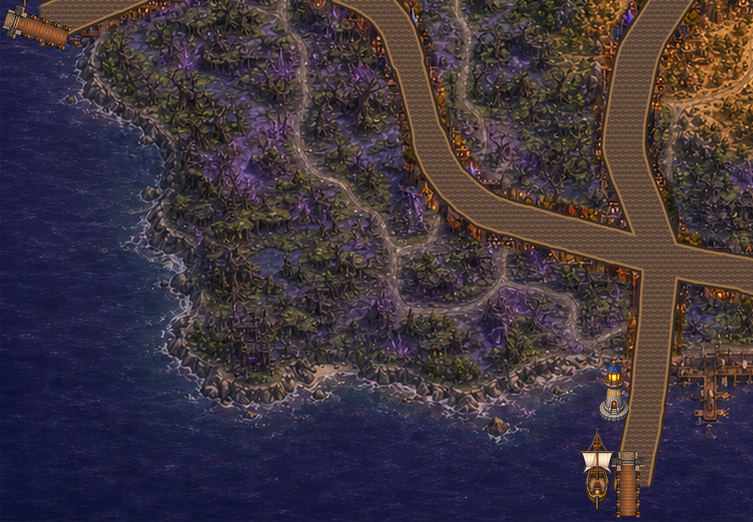
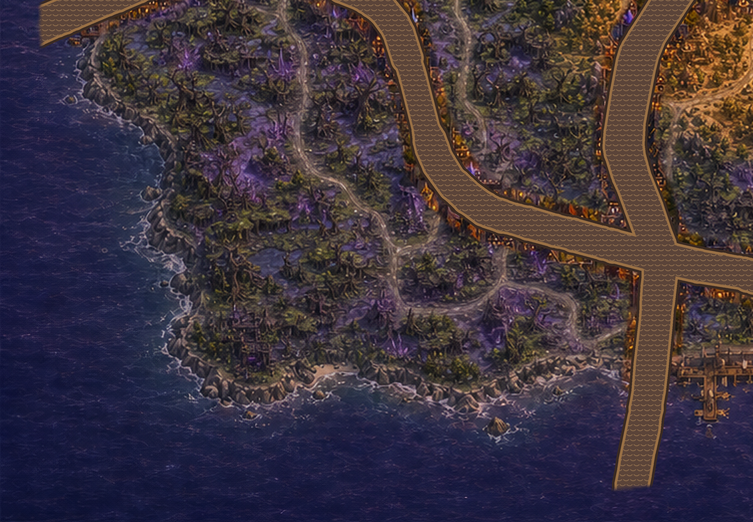
fix: remove past harbor decorations

Changed region(s): [[0.7636, 0.6743, 0.8552, 1.0], [0.0, 0.0, 0.0916, 0.092]]

diff --git a/tests/v2-osm-source.test.js b/tests/v2-osm-source.test.js
@@ -158,30 +158,20 @@ test('the opening fantasy presentation does not reveal the memory premise', () =
   assert.doesNotMatch(runtime, /fillText\(['"]思い出せない場所/);
 });
 
-test('Past Evening map build clips roads to an island and draws ports at coastal road ends', () => {
+test('Past Evening map build clips roads to an island and leaves coastal road ends undecorated', () => {
   const builder = fs.readFileSync(path.join('tools', 'build-v2-geographic-map.py'), 'utf8');
   const html = fs.readFileSync('v2.html', 'utf8');
   const runtime = fs.readFileSync('v2.js', 'utf8');
   assert.match(builder, /past_land_mask/);
-  assert.match(builder, /draw_past_ports/);
-  assert.match(builder, /HARBOR_PIER_SOURCE_PATH/);
-  assert.match(builder, /HARBOR_SHIP_SOURCE_PATH/);
-  assert.match(builder, /HARBOR_LIGHTHOUSE_SOURCE_PATH/);
-  assert.match(builder, /HARBOR_PIER_SCALE\s*=\s*0\.72/);
-  assert.match(builder, /HARBOR_LIGHTHOUSE_INLAND\s*=\s*0\.46/);
-  assert.match(builder, /HARBOR_LIGHTHOUSE_SIDE\s*=\s*0\.10/);
-  assert.match(builder, /pier_sprite\.rotate/);
-  assert.doesNotMatch(builder, /ship_sprite\.rotate|lighthouse_sprite\.rotate/);
-  assert.match(builder, /center\[0\]\s*-\s*outward\[0\]\s*\*\s*size\s*\*\s*HARBOR_LIGHTHOUSE_INLAND\s*\+\s*side\[0\]\s*\*\s*size\s*\*\s*HARBOR_LIGHTHOUSE_SIDE/);
-  assert.match(builder, /center\[1\]\s*-\s*outward\[1\]\s*\*\s*size\s*\*\s*HARBOR_LIGHTHOUSE_INLAND\s*\+\s*side\[1\]\s*\*\s*size\s*\*\s*HARBOR_LIGHTHOUSE_SIDE/);
-  assert.match(builder, /composite_upright_harbor_prop/);
-  assert.match(builder, /canvas\.width\s*-\s*sprite\.width/);
-  assert.match(builder, /canvas\.height\s*-\s*sprite\.height/);
-  assert.match(builder, /Image\.Resampling\.LANCZOS/);
-  assert.match(builder, /alpha_composite/);
+  assert.doesNotMatch(builder, /HARBOR_|harbor-|coastal_road_ports|draw_past_ports|composite_upright_harbor_prop/);
   assert.match(builder, /ImageChops\.multiply/);
-  for (const name of ['harbor-pier-source.png', 'harbor-ship-source.png', 'harbor-lighthouse-source.png']) {
-    assert.equal(fs.existsSync(path.join('assets', 'v2', 'past-events', name)), true, name);
+  for (const name of [
+    'harbor-setpiece-source.png',
+    'harbor-pier-source.png',
+    'harbor-ship-source.png',
+    'harbor-lighthouse-source.png'
+  ]) {
+    assert.equal(fs.existsSync(path.join('assets', 'v2', 'past-events', name)), false, name);
   }
   assert.match(html, /road-collision-past-data\.js/);
   assert.match(runtime, /V2_ROAD_COLLISION_PAST/);

diff --git a/v2.html b/v2.html
@@ -191,7 +191,7 @@
     <script src="assets/v2/road-collision-data.js?edition=1"></script>
     <script src="assets/v2/road-collision-past-data.js?edition=1"></script>
     <script src="assets/v2/map-layout-data.js?edition=1"></script>
-    <script src="v2-editions.js?edition=5"></script>
+    <script src="v2-editions.js?edition=6"></script>
     <script src="v2-assets.js?edition=1"></script>
     <script src="v2-landmarks.js?edition=1"></script>
     <script src="v2-battle.js?edition=7"></script>

diff --git a/tests/v2-past-tiles.test.js b/tests/v2-past-tiles.test.js
@@ -32,7 +32,7 @@ test('past runtime tiles were generated from the final road-composited map', () 
 
 test('past tile and runtime scripts use the current cache versions', () => {
   const html = fs.readFileSync('v2.html', 'utf8');
-  assert.match(html, /v2-editions\.js\?edition=5/);
+  assert.match(html, /v2-editions\.js\?edition=6/);
   assert.match(html, /v2-battle\.js\?edition=7/);
   assert.match(html, /v2\.js\?edition=18/);
 });

diff --git a/tests/v2-editions.test.js b/tests/v2-editions.test.js
@@ -28,7 +28,7 @@ test('both editions use four-tile seamless map directories', () => {
 
 test('Past Evening increments its tile cache version when the road-composited tiles change', () => {
   const past = editionDefinition('past');
-  assert.equal(past.tileVersion, 5);
+  assert.equal(past.tileVersion, 6);
 });
 
 test('Past Evening uses its own medieval landmark art with matching filenames', () => {

diff --git a/v2-editions.js b/v2-editions.js
@@ -20,7 +20,7 @@
       label: '過去編-夕方',
       subtitle: 'PAST · EVENING',
       tileDirectory: 'past-evening-runtime-tiles',
-      tileVersion: 5,
+      tileVersion: 6,
       landmarkDirectory: 'past-landmarks',
       landmarkSizeOverrides: Object.freeze({
         // The source sprite is tightly cropped after removing sheet-edge bleed.

diff --git a/tools/build-v2-geographic-map.py b/tools/build-v2-geographic-map.py
@@ -20,13 +20,6 @@ PREVIEW_PATH = ROOT / "tmp" / "v2-road-geographic-preview.png"
 LANDMARK_PREVIEW_PATH = ROOT / "tmp" / "v2-geographic-landmark-preview.png"
 PAST_LANDMARK_PREVIEW_PATH = ROOT / "tmp" / "v2-past-evening-landmark-preview.png"
 PAST_LAND_MASK_PATH = ROOT / "assets" / "v2" / "past-land-mask.png"
-HARBOR_PIER_SOURCE_PATH = ROOT / "assets" / "v2" / "past-events" / "harbor-pier-source.png"
-HARBOR_SHIP_SOURCE_PATH = ROOT / "assets" / "v2" / "past-events" / "harbor-ship-source.png"
-HARBOR_LIGHTHOUSE_SOURCE_PATH = ROOT / "assets" / "v2" / "past-events" / "harbor-lighthouse-source.png"
-HARBOR_PIER_SCALE = 0.72
-HARBOR_SHIP_OUTWARD = 0.16
-HARBOR_LIGHTHOUSE_INLAND = 0.46
-HARBOR_LIGHTHOUSE_SIDE = 0.10
 COLLISION_DATA_PATH = ROOT / "assets" / "v2" / "road-collision-data.js"
 PAST_COLLISION_DATA_PATH = ROOT / "assets" / "v2" / "road-collision-past-data.js"
 LAYOUT_DATA_PATH = ROOT / "assets" / "v2" / "map-layout-data.js"
@@ -206,121 +199,6 @@ def past_land_mask(size: tuple[int, int]) -> Image.Image:
     return mask.resize((width // 4, height // 4), Image.Resampling.LANCZOS).resize(size, Image.Resampling.LANCZOS)
 
 
-def coastal_road_ports(layout: dict, land_mask: Image.Image) -> list[tuple[float, float, float, int]]:
-    pixels = land_mask.load()
-    width, height = land_mask.size
-
-    def on_land(x: float, y: float) -> bool:
-        rounded_x, rounded_y = round(x), round(y)
-        return (
-            0 <= rounded_x < width
-            and 0 <= rounded_y < height
-            and pixels[rounded_x, rounded_y] >= 128
-        )
-
-    candidates: list[tuple[float, float, float, int]] = []
-    for road in layout["roads"]:
-        for path in road_paths(road):
-            for start, end in zip(path, path[1:]):
-                start_land = on_land(start[0], start[1])
-                end_land = on_land(end[0], end[1])
-                if start_land == end_land:
-                    continue
-                inside = start if start_land else end
-                outside = end if start_land else start
-                inside_x, inside_y = float(inside[0]), float(inside[1])
-                outside_x, outside_y = float(outside[0]), float(outside[1])
-                # Binary search the exact shoreline point along the real road segment.
-                for _ in range(12):
-                    middle_x = (inside_x + outside_x) / 2
-                    middle_y = (inside_y + outside_y) / 2
-                    if on_land(middle_x, middle_y):
-                        inside_x, inside_y = middle_x, middle_y
-                    else:
-                        outside_x, outside_y = middle_x, middle_y
-                angle = math.atan2(outside_y - inside_y, outside_x - inside_x)
-                candidates.append((inside_x, inside_y, angle, road["width"]))
-
-    # Several OSM ways can describe the same physical coastal approach.
-    ports: list[tuple[float, float, float, int]] = []
-    for candidate in sorted(candidates, key=lambda item: item[3], reverse=True):
-        if all(math.dist(candidate[:2], existing[:2]) >= 75 for existing in ports):
-            ports.append(candidate)
-    return ports
-
-
-def composite_upright_harbor_prop(
-    canvas: Image.Image,
-    source: Image.Image,
-    anchor: tuple[float, float],
-    target_height: int,
-) -> None:
-    # Tall pseudo-3D props use a bottom-center ground anchor. They are never
-    # rotated with the coast, so every mast and wall rises toward screen top.
-    content_bounds = source.getchannel("A").getbbox()
-    if content_bounds is None:
-        raise ValueError("Harbor prop source has no visible pixels")
-    sprite = source.crop(content_bounds)
-    target_width = max(1, round(sprite.width / sprite.height * target_height))
-    sprite = sprite.resize((target_width, target_height), Image.Resampling.LANCZOS)
-    left = round(anchor[0] - sprite.width / 2)
-    top = round(anchor[1] - sprite.height)
-    # Keep upright ships and towers fully visible at ports close to the map edge.
-    left = max(0, min(left, canvas.width - sprite.width))
-    top = max(0, min(top, canvas.height - sprite.height))
-    canvas.alpha_composite(sprite, (left, top))
-
-
-def draw_past_ports(canvas: Image.Image, layout: dict, land_mask: Image.Image) -> Image.Image:
-    high_resolution = canvas.convert("RGBA").resize(
-        (canvas.width * SUPERSAMPLE, canvas.height * SUPERSAMPLE),
-        Image.Resampling.LANCZOS,
-    )
-    pier_source = Image.open(HARBOR_PIER_SOURCE_PATH).convert("RGBA")
-    ship_source = Image.open(HARBOR_SHIP_SOURCE_PATH).convert("RGBA")
-    lighthouse_source = Image.open(HARBOR_LIGHTHOUSE_SOURCE_PATH).convert("RGBA")
-    for x, y, angle, road_width in coastal_road_ports(layout, land_mask):
-        size = round(max(128, min(158, 112 + road_width * 1.35)) * SUPERSAMPLE)
-        pier_size = round(size * HARBOR_PIER_SCALE)
-        pier_sprite = pier_source.resize((pier_size, pier_size), Image.Resampling.LANCZOS)
-        # Only the low, mostly top-down deck follows the road/shore direction.
-        # Rotating the former combined sprite also turned towers and masts
-        # sideways, contradicting the map's consistent pseudo-3D projection.
-        pier_sprite = pier_sprite.rotate(
-            math.degrees(angle) + 90,
-            resample=Image.Resampling.BICUBIC,
-            expand=True,
-        )
-        center = x * SUPERSAMPLE, y * SUPERSAMPLE
-        left = round(center[0] - pier_sprite.width / 2)
-        top = round(center[1] - pier_sprite.height / 2)
-        high_resolution.alpha_composite(pier_sprite, (left, top))
-
-        outward = math.cos(angle), math.sin(angle)
-        side = -outward[1], outward[0]
-        prop_anchors = (
-            (
-                center[0] + outward[0] * size * HARBOR_SHIP_OUTWARD + side[0] * size * 0.22,
-                center[1] + outward[1] * size * HARBOR_SHIP_OUTWARD + side[1] * size * 0.22,
-                ship_source,
-                round(size * 0.58),
-            ),
-            (
-                center[0] - outward[0] * size * HARBOR_LIGHTHOUSE_INLAND + side[0] * size * HARBOR_LIGHTHOUSE_SIDE,
-                center[1] - outward[1] * size * HARBOR_LIGHTHOUSE_INLAND + side[1] * size * HARBOR_LIGHTHOUSE_SIDE,
-                lighthouse_source,
-                round(size * 0.44),
-            ),
-        )
-        for anchor_x, anchor_y, source, target_height in sorted(prop_anchors, key=lambda item: item[1]):
-            composite_upright_harbor_prop(
-                high_resolution,
-                source,
-                (anchor_x, anchor_y),
-                target_height,
-            )
-    return high_resolution.resize(canvas.size, Image.Resampling.LANCZOS).convert("RGB")
-
 def mask_to_runs(mask: Image.Image) -> list[list[list[int]]]:
     rows: list[list[list[int]]] = []
     pixels = mask.load()
@@ -405,7 +283,6 @@ def render_map(layout: dict, background_path: Path, output_path: Path, palette: 
         island = Image.open(PAST_BACKGROUND_PATH).convert("RGB").resize((width, height), Image.Resampling.LANCZOS)
         # Keep the generated sea outside the stable island mask and all deterministic road work inside it.
         map_image = Image.composite(map_image, island, land_mask)
-        map_image = draw_past_ports(map_image, layout, land_mask)
     output_path.parent.mkdir(parents=True, exist_ok=True)
     map_image.save(output_path)
     return map_image

diff --git a/assets/v2/PAST_ASSET_PROMPTS.md b/assets/v2/PAST_ASSET_PROMPTS.md
@@ -126,98 +126,3 @@ Mood: mystery resolved but a larger secret discovered; ordinary sword-and-magic 
 Lighting: warm evening light entering from upper right, cool purple haze receding, subtle golden rim on the seal plate.
 Constraints: do not draw any star, compass rose, crest, emblem, letters, numbers, runes, text, captions, UI, logo, watermark, characters, monster, or battle effect on the blank medallion. It must remain plain and unobstructed for compositing.
 ```
-
-## 港セットピース
-
-`harbor-setpiece-source.png`
-
-```text
-Use case: stylized-concept
-Asset type: transparent top-down isometric RPG map setpiece
-Primary request: A polished small medieval coastal harbor setpiece for a fantasy overworld. Build one straight, clean wooden pier oriented vertically from land at the bottom toward open water at the top. A compact single-mast medieval sailing ship is neatly moored along the left side of the pier. A small stone lighthouse with warm lantern windows stands on a round stone platform along the right side near the seaward end. Add a few tidy crates, rope coils, bollards, and one tiny rowboat. The pier edges must be smooth and intentionally constructed, not jagged.
-Style: hand-painted classic 16-bit/32-bit era JRPG upgraded to high resolution, strict top-down with slight isometric depth matching a detailed fantasy overworld, crisp readable silhouettes.
-Composition: square canvas, the complete harbor isolated in the center, generous transparent padding on all sides, land connection at exact bottom center, seaward end at exact top center. Keep all parts within the canvas.
-Lighting: neutral soft ambient asset lighting with subtle warm lighthouse glow; avoid directional cast shadows so the whole asset can be rotated to different shore directions without looking wrong.
-Constraints: genuinely transparent background; no ocean background; no land terrain background; no coast edge; no people; no labels; no text; no modern vehicles; no UI; no watermark. The asset will be rotated and composited over existing sea and shore pixels.
-```
-
-## 港の固定疑似3D投影
-
-港全体を回転すると灯台や帆まで横倒しになるため、最終版では桟橋だけを回転し、船と灯台は常に画面上方向へ立つ独立レイヤーとして合成する。
-
-`harbor-pier-source.png` のベース生成
-
-```text
-Use case: precise-object-edit
-Asset type: transparent rotatable JRPG overworld pier component
-Input images: Image 1 is the current harbor setpiece and the edit target/style reference.
-Primary request: Isolate and retain only the clean wooden pier/deck and its low stone land-connection landing. Remove the sailing ship, rowboat, lighthouse, tower, flags, hanging lantern posts, tall masts, crates, barrels, ropes and every other tall or directional prop. Reconstruct any deck boards hidden behind removed objects.
-Style/medium: preserve the exact hand-painted high-resolution classic 16-bit/32-bit JRPG overworld style, materials, outline weight and warm brown palette of Image 1.
-Composition/framing: square transparent canvas; one straight pier runs vertically from a low stone landing at exact bottom center toward a clean squared seaward end at exact top center; centered; generous transparent padding; perfectly suitable for rotation to any coast direction.
-Perspective: mostly top-down deck surface with only very shallow edge thickness. No pseudo-3D vertical structures and no directional lighting or shadows, so rotation by 0/90/180/270 degrees remains visually natural.
-Constraints: genuinely transparent background; change the asset into a pier-only layer; no water, no terrain, no coast, no ship, no boat, no lighthouse, no building, no mast, no flags, no text, no UI, no watermark.
-```
-
-`harbor-pier-source.png` の透明背景補正
-
-```text
-Use case: background-extraction
-Asset type: transparent rotatable JRPG overworld pier component
-Input images: Image 1 is the pier-only edit target. Its visible pale checkerboard is an incorrect baked background, not part of the artwork.
-Primary request: Remove only the entire pale checkerboard/background and replace it with genuine PNG alpha transparency. Preserve the wooden pier, low posts, metal brackets, ropes on the posts, and bottom stone landing exactly as shown, including their shape, colors, texture, scale and centered vertical orientation.
-Composition/framing: keep the same square canvas and the same centered bottom-to-top pier placement.
-Constraints: actual transparent pixels everywhere outside the pier and landing; clean anti-aliased cutout edges; no white or gray checkerboard; no halo; no new objects; no restyling; no water; no terrain; no text; no UI; no watermark.
-```
-
-`harbor-lighthouse-source.png`
-
-```text
-Use case: precise-object-edit
-Asset type: transparent upright JRPG overworld lighthouse component
-Input images: Image 1 is the current harbor setpiece and the edit target/style reference.
-Primary request: Isolate the stone lighthouse from Image 1 as a separate reusable sprite. Remove the pier, ships, boats, ropes, barrels, crates, flags and every other harbor object. Preserve the lighthouse's blue-and-gold lantern roof, warm lit windows, round stone base and small front steps, while reconstructing clean hidden edges.
-Style/medium: preserve the exact hand-painted high-resolution classic 16-bit/32-bit JRPG overworld style, material detail, outline weight and palette of Image 1.
-Composition/framing: square transparent canvas; lighthouse centered; base contact point at exact bottom center; generous transparent padding above and to both sides; entire silhouette visible.
-Perspective: front-facing pseudo-3D overworld sprite. The stone base rests at the bottom and the tower rises strictly toward the top edge of the screen. Vertical walls stay vertical. Camera is in front with a slight view of the roof and front doorway, consistent with all buildings extending upward on the map.
-Lighting/mood: neutral ambient lighting with warm lantern glow; no long directional cast shadow.
-Constraints: genuinely transparent background; no water, no terrain, no pier, no ship, no boat, no extra building, no text, no UI, no watermark. Do not tilt or rotate the tower left, right, or downward.
-```
-
-`harbor-ship-source.png`
-
-```text
-Use case: precise-object-edit
-Asset type: transparent upright JRPG overworld harbor ship component
-Input images: Image 1 is the current harbor setpiece and the edit target/style reference.
-Primary request: Isolate the compact medieval single-mast sailing ship from Image 1 as a separate reusable harbor sprite. Remove the pier, lighthouse, rowboat, ropes connecting to the pier, crates, barrels, flags outside the ship and every other harbor object. Preserve the blue-and-gold hull, warm cabin windows, mast, rigging and cream sail, reconstructing clean hidden edges.
-Style/medium: preserve the exact hand-painted high-resolution classic 16-bit/32-bit JRPG overworld style, material detail, outline weight and palette of Image 1.
-Composition/framing: square transparent canvas; complete ship centered; hull contact/base at bottom center; mast and sail rise toward the top edge; generous transparent padding; entire silhouette visible.
-Perspective: front-facing pseudo-3D overworld sprite rather than a flat overhead token. The hull rests lower in the image and all vertical mast, sail and cabin details extend strictly upward on screen. Slight top-surface visibility is allowed, but the sprite must never appear sideways or upside-down.
-Lighting/mood: neutral ambient asset lighting with restrained warm window glow; no long directional cast shadow.
-Constraints: genuinely transparent background; no water, no terrain, no pier, no lighthouse, no rowboat, no extra building, no text, no UI, no watermark. Do not tilt or rotate the mast left, right, or downward.
-```
-
-## 港のコンパクトな桟橋
-
-`harbor-pier-source.png` の短縮再制作
-
-```text
-Use case: precise-object-edit
-Asset type: transparent rotatable JRPG overworld pier component
-Input image: Image 1 is the exact pier asset to edit and the style/material reference.
-Primary request: Shorten the visible wooden pier to about 55–60 percent of its current length. Keep only four evenly spaced wooden deck bays between the clean squared seaward end and the low stone land-connection landing. Preserve the current pier width, warm brown boards, low round posts, rope details, dark metal brackets, stone landing, crisp painted texture, outline weight, and overall visual quality. Do not merely squash or vertically scale the existing art: reconstruct it naturally as a deliberately compact harbor pier with fewer repeated sections.
-Composition/framing: keep a square 2048×2048 transparent canvas. Center the shorter pier vertically and horizontally. Its midpoint must remain at the exact canvas center so rotation around the canvas center remains correct. The squared seaward end points to exact top center and the stone land connection points to exact bottom center. Leave generous and approximately balanced transparent padding above and below the shortened structure.
-Perspective: mostly top-down deck surface with only shallow edge thickness. It must remain visually natural when rotated to any coast direction.
-Constraints: genuine PNG alpha transparency outside the pier and landing; no checkerboard baked into pixels; no water; no terrain; no shoreline; no ship; no boat; no lighthouse; no building; no mast; no flags; no crates; no barrels; no text; no UI; no watermark; no new props; no directional cast shadow.
-```
-
-`harbor-pier-source.png` の透過背景補正
-
-```text
-Use case: background-extraction
-Asset type: transparent rotatable JRPG overworld pier component
-Input image: Image 1 is the exact compact pier edit target. The visible pale gray and white checkerboard is an incorrect baked background, not artwork.
-Primary request: Remove only the entire checkerboard and every background pixel, replacing them with genuine PNG alpha transparency. Preserve the compact four-bay wooden pier and low stone landing exactly as shown: same shape, pixel position, proportions, center point, colors, painted detail, warm boards, posts, ropes, brackets, stones, scale, vertical orientation, and balanced padding. Do not redraw, move, resize, rotate, stretch, crop, or restyle the pier.
-Composition/framing: retain the same square canvas and centered layout. Seaward end stays at top center, stone land connection stays at bottom center.
-Constraints: actual transparent alpha pixels everywhere outside the pier and landing; clean antialiased cutout edges; no gray or white checkerboard; no pale background; no halo; no new objects; no changes to the artwork; no water; no terrain; no text; no UI; no watermark.
-```
